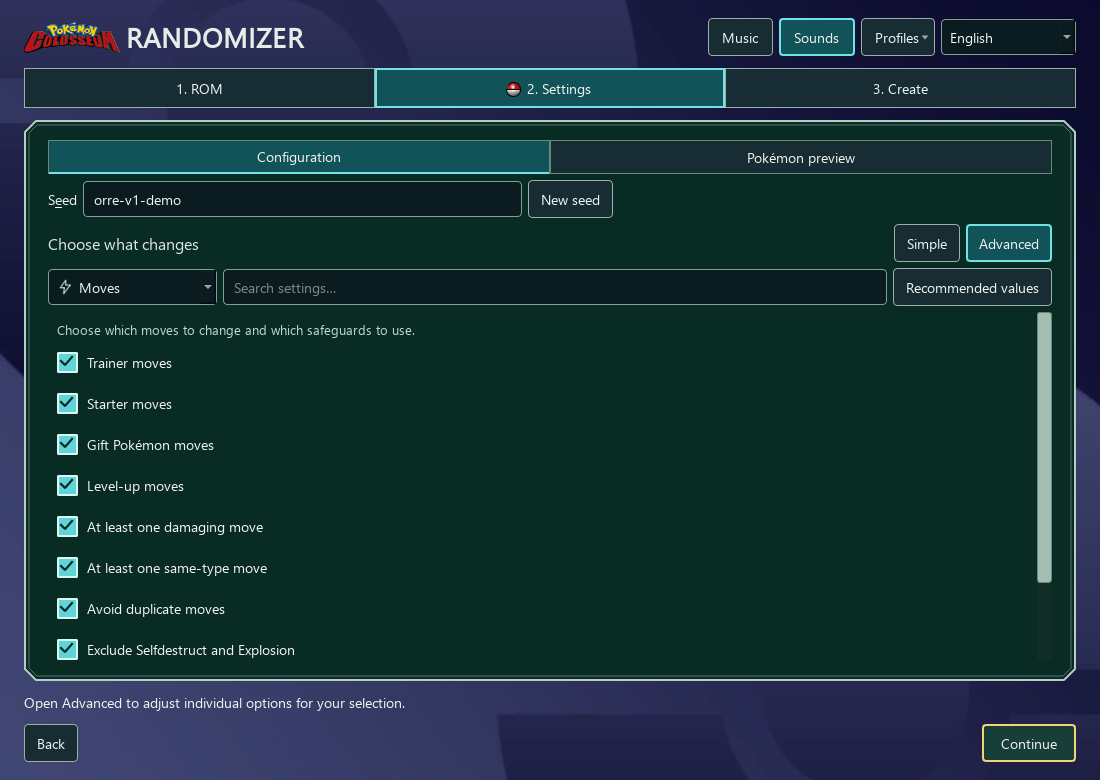
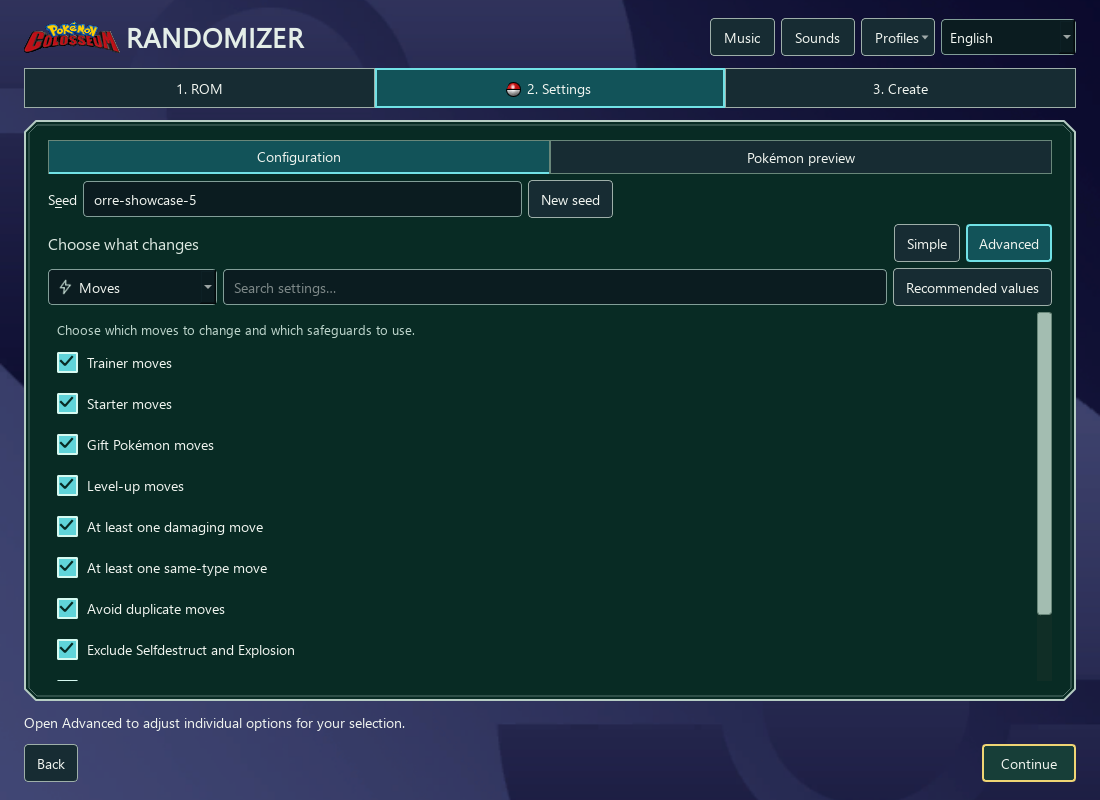
docs: refresh English screenshots and gameplay GIFs

Changed region(s): [[0.0309, 0.0, 0.9891, 0.9846], [0.8964, 0.9231, 0.9891, 0.9846], [0.9273, 0.7385, 0.9582, 0.7692]]

diff --git a/scripts/release_media.py b/scripts/release_media.py
@@ -1,4 +1,4 @@
-"""Explicit documentation screenshot allowlist, shared by build and audit."""
+"""Explicit documentation media allowlist, shared by build and audit."""
 import hashlib
 import json
 
@@ -9,7 +9,9 @@ DOCUMENTATION_IMAGES = frozenset(("home.png", "colosseum-settings.png",
                                  "colosseum-advanced.png", "xd-advanced.png",
                                  "colosseum-shadow-moves.png", "xd-shadow-moves.png",
                                  "xd-pokespot-shiny-field.png", "xd-pokespot-shiny-battle.png",
-                                 "colosseum-motorcycle-starters.png"))
+                                 "colosseum-motorcycle-starters.png", "colosseum-motorcycle-arrival.gif",
+                                 "colosseum-plusle-gift.png", "colosseum-pyrite-dancers.png", "colosseum-pyrite-dancers.gif",
+                                 "xd-lighthouse-dancers.png"))
 
 
 def documentation_media(read_bytes):

diff --git a/scripts/verify_release.py b/scripts/verify_release.py
@@ -63,7 +63,7 @@ def main():
                     raise RuntimeError(f"Local data folder in release: {name}")
                 if item.filename.startswith(prefix) and item.filename not in game_assets | {prefix + "provenance.json"}:
                     raise RuntimeError("Unlisted interface asset: " + item.filename)
-                if (name.suffix.lower() in {".wav", ".png", ".jpg", ".jpeg", ".mp3", ".ogg", ".flac", ".ico"}
+                if (name.suffix.lower() in {".wav", ".png", ".jpg", ".jpeg", ".gif", ".mp3", ".ogg", ".flac", ".ico"}
                         and not application_media_allowed(item.filename, binary)
                         and item.filename not in game_assets | doc_assets):
                     raise RuntimeError("Unlisted release media: " + item.filename)

diff --git a/README.md b/README.md
@@ -85,33 +85,47 @@ the ROM. Each row opens the replacement's Pokémon sheet with a single click.
 
 ## In game
 
-Real starter screens from earlier Dolphin playtests, with the games in French.
-These are examples of custom runs; the current presets are described above.
+These English-language Dolphin captures show two seeded runs. Colosseum starts
+with Treecko and Totodile. XD starts with Torchic.
 
 | Pokémon Colosseum | Pokémon XD |
 | --- | --- |
-| ![Randomized starting party: Seadra and Electabuzz](docs/images/colosseum-starters-ingame.png) | ![Randomized starter: shiny Horsea](docs/images/xd-starter-ingame.png) |
-| Seadra, level 26, and Electabuzz, level 25. | Horsea, level 10, from a 100% shiny test. |
-
-The [Colosseum](docs/DOLPHIN_VALIDATION_2026-10-31.md) and
-[XD](docs/reverse-engineering/XD.md) validation notes record their test scope.
+| ![Treecko and Totodile in the Colosseum starting party](docs/images/colosseum-starters-ingame.png) | ![Torchic, the randomized starter in XD](docs/images/xd-starter-ingame.png) |
 
 ### Randomized Pokémon in story scenes
 
-In XD, the Pokémon seen at a Poké Spot is the one that appears in battle.
-The field model uses the encounter's own shiny result. Here, a shiny Wailord
-appears at the Cave Poké Spot and keeps its color when the battle starts.
+In Colosseum, the real-time arrival at Outskirt Stand puts Treecko and
+Totodile in the sidecar. The prerecorded opening movie uses the original
+footage.
+
+![Treecko and Totodile arriving by motorcycle at Outskirt Stand](docs/images/colosseum-motorcycle-arrival.gif)
+
+[View the motorcycle still](docs/images/colosseum-motorcycle-starters.png)
+
+Poliwhirl replaces Plusle in Colosseum. Duking names the same Pokémon shown
+beside him in the story scene.
+
+![Duking and Poliwhirl in the randomized Plusle gift scene](docs/images/colosseum-plusle-gift.png)
+
+Miror B.'s dancers follow the randomized team in Pyrite Cave and at
+Gateon Port's lighthouse.
+
+| Colosseum · Pyrite Cave | XD · Gateon Port Lighthouse |
+| --- | --- |
+| ![Miror B. dancing with his randomized Pokémon in Pyrite Cave](docs/images/colosseum-pyrite-dancers.gif) | ![Randomized dancers on Gateon Port's lighthouse roof](docs/images/xd-lighthouse-dancers.png) |
+
+[View the Pyrite Cave still](docs/images/colosseum-pyrite-dancers.png)
+
+In XD, a shiny Marill appears at the Cave Poké Spot and keeps the same
+color when the wild battle starts.
 
 | Cave Poké Spot | Wild battle |
 | --- | --- |
-| ![Shiny Wailord on the field at the Cave Poké Spot](docs/images/xd-pokespot-shiny-field.png) | ![The same shiny Wailord in battle](docs/images/xd-pokespot-shiny-battle.png) |
+| ![Shiny Marill on the field at the Cave Poké Spot](docs/images/xd-pokespot-shiny-field.png) | ![The same shiny Marill in battle](docs/images/xd-pokespot-shiny-battle.png) |
 
-In Colosseum, the arrival at Outskirt Stand shows the randomized starters
-in the sidecar. This run pairs a scaled-down shiny Wailord with a
-shiny Diglett sitting near the edge of the rear seat. The prerecorded opening movie uses the
-original footage.
-
-![Shiny Wailord and Diglett arriving by motorcycle at Outskirt Stand](docs/images/colosseum-motorcycle-starters.png)
+The [capture manifest](docs/images/manifest.json) lists the seeds and the
+source of each image. The [story-scene notes](docs/reverse-engineering/STORY_GIFT_SCENES.md)
+describe how the models and dialogue follow the randomizer.
 
 ## What you can customize
 
@@ -141,13 +155,11 @@ Pokémon sheets read the final patched game data, including evolution routes,
 moves and TM compatibility. The Summary and Moves tabs show the original ability
 and move descriptions in your interface language.
 
-![Cyndaquil’s evolution sheet in Colosseum, with the original Fire badge](docs/images/pokemon-sheet.png)
+![Treecko’s evolution sheet in Colosseum, with the original Grass badge](docs/images/pokemon-sheet.png)
 
 | Colosseum · Shadow Rush | XD · Shadow moves |
 | --- | --- |
-| ![Colosseum move sheet with Shadow Rush and its description](docs/images/colosseum-shadow-moves.png) | ![XD move sheet with Shadow moves, descriptions and type badges](docs/images/xd-shadow-moves.png) |
-
-The move sheets above show the French interface.
+| ![Houndour’s move sheet with Shadow Rush and its description](docs/images/colosseum-shadow-moves.png) | ![Shiny Venonat’s move sheet with Shadow moves and type badges](docs/images/xd-shadow-moves.png) |
 
 ### Advanced settings
 
